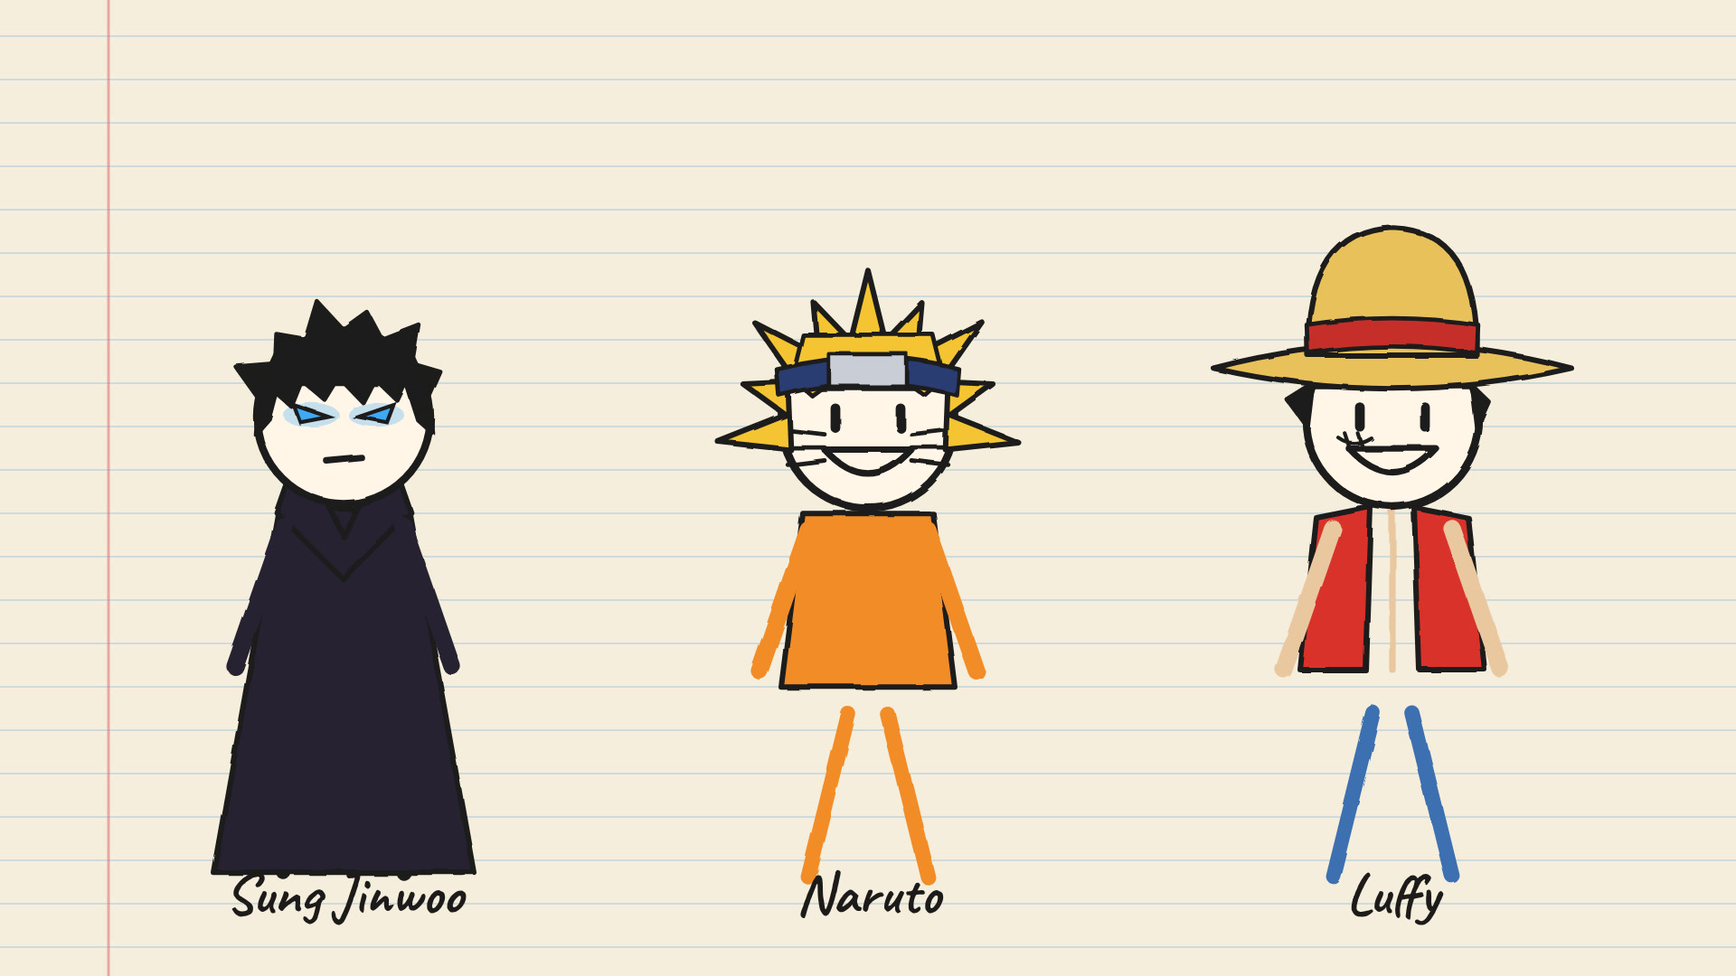
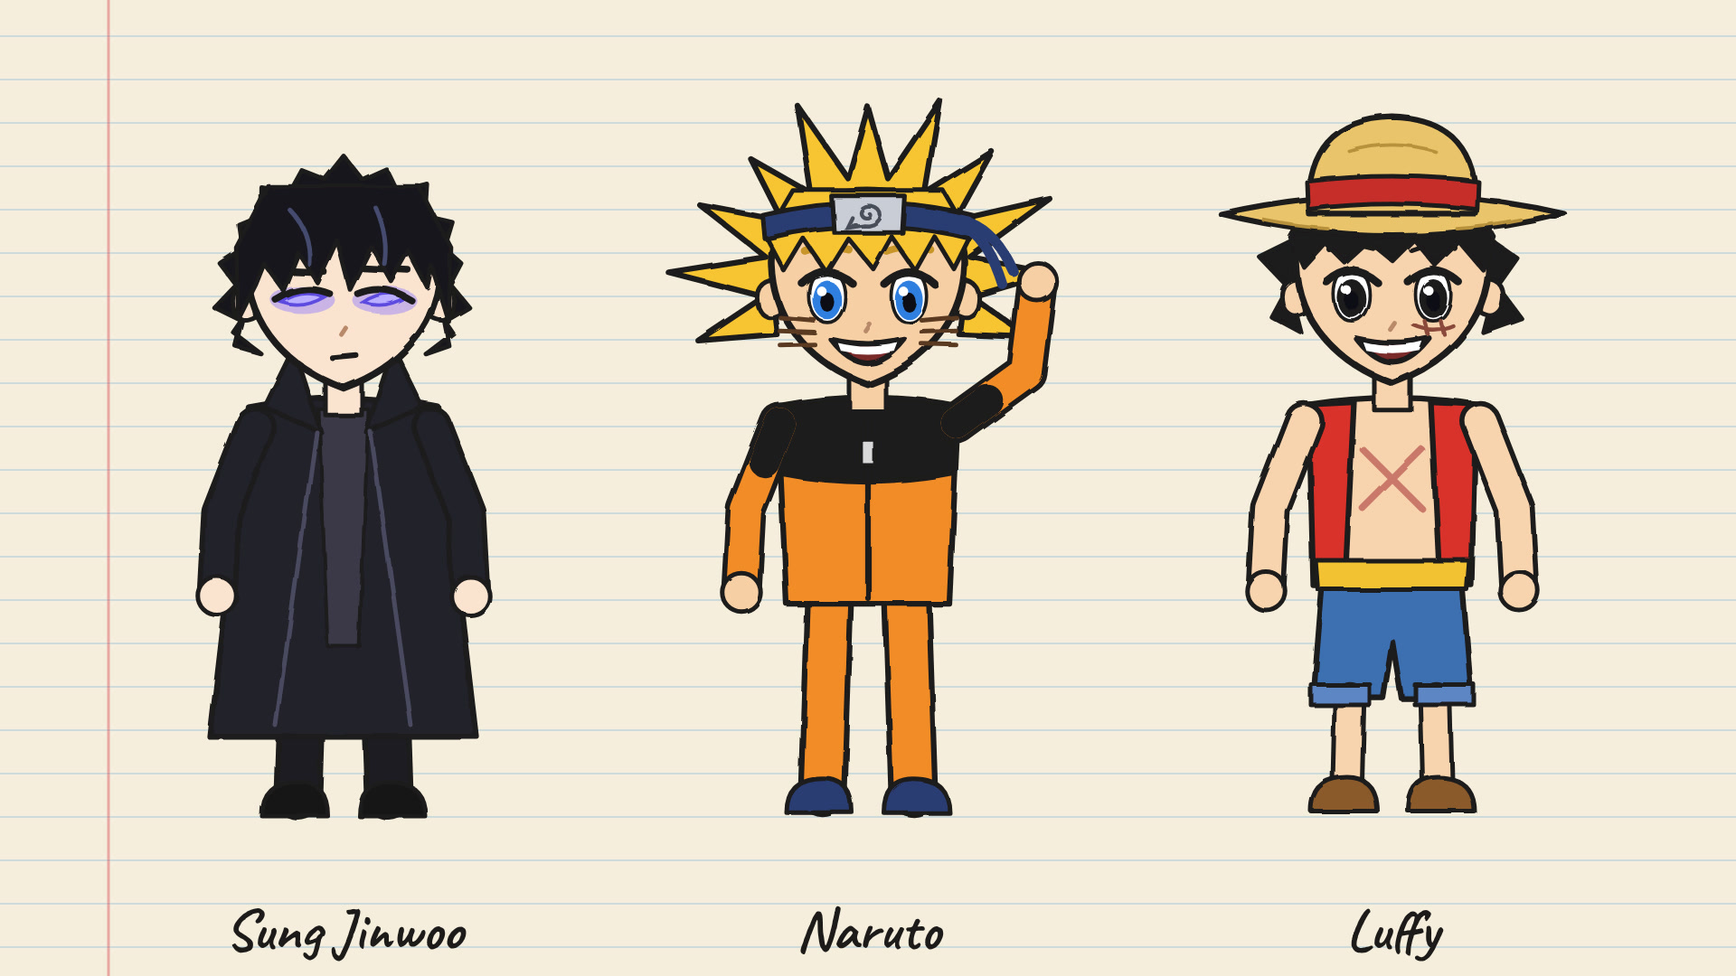
Social Ripple: anime-style chibi characters (Jinwoo, Naruto, Luffy)
Claude-Session: https://claude.ai/code/session_01BFgAxmP7ubruifvaTKx5Vg

Changed region(s): [[0.375, 0.0917, 0.625, 0.9778], [0.6875, 0.0917, 0.9062, 0.9778], [0.0938, 0.1528, 0.2812, 0.9778]]

diff --git a/research/meta-muse/social-ripple/anime/kit/char.js b/research/meta-muse/social-ripple/anime/kit/char.js
@@ -1,56 +1,101 @@
-/* Anime character "ink" figures for Social Ripple: our own simplified drawings built from each character's
-   signature traits (hair, outfit colours, marks). CHAR(K or {I}) → { draw(p, name, x, y, s, at, o) } returning a figure handle. */
+/* Anime characters for Social Ripple, drawn in our own ink-outline chibi style from each character's signature design
+   traits (hair silhouette, eyes, outfit, marks). Not traced from official art.
+   const C = CHAR({ I }); const h = C.draw(parent, "naruto" | "luffy" | "jinwoo", x, feetY, scale, at, { mood, glow, pose });
+   h.setMood(t, m)  h.setGlow(t, bool)  h.update(t). Moods: neutral, smile, grin, serious, sad, shout. Poses: down, fist, point, cross. */
 (function () {
   window.CHAR = function (K) {
-    const { I } = K, el = I.el, INKC = I.INKC;
-    const poly = (pts) => "M" + pts.map((p) => p.map((v) => v.toFixed(1)).join(",")).join(" L") + " Z";
-    const spikes = (cx, cy, r, a0, a1, n, rin, rout, jit = 0) => { const pts = []; for (let i = 0; i <= n; i++) { const a = (a0 + (a1 - a0) * (i / n)) * Math.PI / 180, rr = i % 2 ? rout + (i % 4 === 1 ? jit : -jit) : rin; pts.push([cx + Math.cos(a) * r * rr, cy + Math.sin(a) * r * rr]); } return pts.concat([[cx + r * 0.92, cy - r * 0.38], [cx - r * 0.92, cy - r * 0.38]]); };
-    const fillP = (p, d, fill, at, o = {}) => I.fill(p, el("path", { d, fill, stroke: o.stroke ?? INKC, "stroke-width": o.sw ?? 6, "stroke-linejoin": "round", opacity: 0 }), at, o.dur || 0.25, { sound: o.sound ?? false });
-    const P = {
-      jinwoo: { hair: "#1D1B1A", coat: "#262330", coatLen: 1.0, collar: true, pants: "#1D1B1A", eye: "#3FA9F5" },
-      naruto: { hair: "#F4C430", coat: "#F28C28", coatLen: 0.55, pants: "#F28C28", eye: "#3B7DD8", band: true, whiskers: true },
-      luffy: { hair: "#1D1B1A", coat: "#D8322A", coatLen: 0.5, vest: true, pants: "#3D6FB0", eye: INKC, hat: true, scar: true },
-    };
+    const { I } = K, el = I.el, INK = I.INKC;
+    const SKIN = { naruto: "#F6CFA4", luffy: "#F7D3AE", jinwoo: "#FBE4CF" };
     function draw(p, name, x, y, s, at, o = {}) {
-      const c = P[name], g = el("g", {}, p), r = 80 * s, cx = x, cy = y - 330 * s;
-      // body: coat / jacket as a filled shape under the stick limbs
-      const sh = y - 250 * s, hem = y - 250 * s + 300 * s * c.coatLen + (c.coatLen > 0.8 ? 40 * s : 0);
-      const legs = I.path(g, `M${x - 18 * s},${y - 60 * s} L${x - 55 * s},${y + 90 * s} M${x + 18 * s},${y - 60 * s} L${x + 55 * s},${y + 90 * s}`, at + 0.6, 0.3, { w: 14 * s, color: c.pants });
-      fillP(g, c.vest ? `M${x - 70 * s},${sh + 10 * s} L${x - 20 * s},${sh} L${x - 25 * s},${hem} L${x - 85 * s},${hem} Z M${x + 70 * s},${sh + 10 * s} L${x + 20 * s},${sh} L${x + 25 * s},${hem} L${x + 85 * s},${hem} Z`
-        : `M${x - 60 * s},${sh + 5 * s} L${x + 60 * s},${sh + 5 * s} L${x + (c.coatLen > 0.8 ? 120 : 80) * s},${hem} L${x - (c.coatLen > 0.8 ? 120 : 80) * s},${hem} Z`, c.coat, at + 0.3, { sound: "swish" });
-      if (c.collar) fillP(g, `M${x - 62 * s},${sh + 8 * s} L${x - 40 * s},${sh - 55 * s} L${x},${sh + 30 * s} L${x + 40 * s},${sh - 55 * s} L${x + 62 * s},${sh + 8 * s} L${x},${sh + 70 * s} Z`, c.coat, at + 0.35);
-      if (c.vest) I.path(g, `M${x},${sh} V${hem}`, at + 0.35, 0.2, { w: 6 * s, color: "#E9C8A0", silent: true });
-      const arms = o.arms || `M${x - 55 * s},${sh + 20 * s} L${x - 100 * s},${sh + 150 * s} M${x + 55 * s},${sh + 20 * s} L${x + 100 * s},${sh + 150 * s}`;
-      I.path(g, arms, at + 0.45, 0.3, { w: 16 * s, color: c.vest ? "#E9C8A0" : c.coat });
-      // head
-      I.fill(g, el("circle", { cx, cy, r, fill: "#FFF6E8", stroke: INKC, "stroke-width": 7 * s, opacity: 0 }), at, 0.2, { sound: "pop" });
-      // eyes (two styles), mouths by mood
-      const eyes = el("g", {}, g), glow = el("g", { opacity: 0 }, g);
-      I.path(eyes, `M${cx - 30 * s},${cy - 12 * s} l0,${18 * s} M${cx + 30 * s},${cy - 12 * s} l0,${18 * s}`, at + 0.3, 0.15, { w: 9 * s, silent: true });
-      [-1, 1].forEach((d) => { el("ellipse", { cx: cx + d * 30 * s, cy: cy - 2 * s, rx: 26 * s, ry: 11 * s, fill: c.eye, opacity: 0.3 }, glow);
-        el("path", { d: `M${cx + d * 14 * s},${cy} L${cx + d * 46 * s},${cy - 11 * s} L${cx + d * 40 * s},${cy + 5 * s} Z`, fill: c.eye, stroke: INKC, "stroke-width": 3.5 * s }, glow); });
-      const mouth = { neutral: `M${cx - 20 * s},${cy + 38 * s} l${40 * s},0`, smile: `M${cx - 30 * s},${cy + 30 * s} q${30 * s},${26 * s} ${60 * s},0`, grin: `M${cx - 40 * s},${cy + 26 * s} q${40 * s},${44 * s} ${80 * s},0 z`, sad: `M${cx - 26 * s},${cy + 46 * s} q${26 * s},${-20 * s} ${52 * s},0`, serious: `M${cx - 16 * s},${cy + 40 * s} l${32 * s},${-3 * s}` };
-      const ms = {}; for (const m in mouth) { ms[m] = I.path(g, mouth[m], at + 0.35, 0.15, { w: 6 * s, silent: true }); ms[m].style.display = "none"; }
-      // signature marks
-      if (c.whiskers) for (const d of [-1, 1]) for (let k = 0; k < 3; k++) I.path(g, `M${cx + d * 40 * s},${cy + (12 + k * 12) * s} l${d * 34 * s},${(k - 1) * 4 * s}`, at + 0.4, 0.1, { w: 4 * s, silent: true });
-      if (c.scar) I.path(g, `M${cx - 50 * s},${cy + 16 * s} q${14 * s},${10 * s} ${30 * s},0 M${cx - 44 * s},${cy + 12 * s} l${4 * s},${12 * s} M${cx - 32 * s},${cy + 12 * s} l${4 * s},${12 * s}`, at + 0.4, 0.15, { w: 3.5 * s, silent: true });
-      // hair
-      if (name === "jinwoo") { fillP(g, poly(spikes(cx, cy, r, 192, 348, 12, 1.0, 1.3, 0.07)), c.hair, at + 0.15, { sw: 4 * s });
-        const R = (u, v) => [cx + u * r, cy + v * r];
-        fillP(g, poly([R(-0.98, -0.3), R(-1.02, 0.2), R(-0.86, 0.02), R(-0.78, -0.28), R(-0.6, -0.12), R(-0.48, -0.42), R(-0.22, -0.2), R(-0.06, -0.46), R(0.22, -0.17), R(0.36, -0.44), R(0.62, -0.19), R(0.72, -0.4), R(0.86, 0.04), R(1.02, 0.18), R(0.98, -0.3), R(0.7, -0.9), R(-0.7, -0.9)]), c.hair, at + 0.2, { sw: 4 * s }); }
-      if (name === "naruto") { fillP(g, poly(spikes(cx, cy, r, 160, 380, 18, 0.95, 1.62, 0.12)), c.hair, at + 0.15, { sw: 5 * s });
-        fillP(g, poly([[cx - 70 * s, cy - 40 * s], [cx - 52 * s, cy - 24 * s], [cx - 30 * s, cy - 40 * s], [cx + 30 * s, cy - 40 * s], [cx + 52 * s, cy - 24 * s], [cx + 70 * s, cy - 40 * s], [cx + 60 * s, cy - 80 * s], [cx - 60 * s, cy - 80 * s]]), c.hair, at + 0.2, { sw: 4 * s });
-        fillP(g, `M${cx - 84 * s},${cy - 48 * s} Q${cx},${cy - 70 * s} ${cx + 84 * s},${cy - 48 * s} L${cx + 82 * s},${cy - 24 * s} Q${cx},${cy - 46 * s} ${cx - 82 * s},${cy - 24 * s} Z`, "#2C3E73", at + 0.25, { sw: 4 * s });
-        fillP(g, `M${cx - 36 * s},${cy - 62 * s} h${72 * s} v${30 * s} h${-72 * s} z`, "#C9CED6", at + 0.3, { sw: 4 * s }); }
-      if (name === "luffy") { fillP(g, poly(spikes(cx, cy, r, 175, 365, 12, 0.98, 1.18, 0.05)), c.hair, at + 0.15, { sw: 4 * s });
-        fillP(g, `M${cx - 165 * s},${cy - 48 * s} Q${cx},${cy - 10 * s} ${cx + 165 * s},${cy - 48 * s} Q${cx},${cy - 92 * s} ${cx - 165 * s},${cy - 48 * s} Z`, "#E8C15A", at + 0.25, { sw: 5 * s, sound: "slap" });
-        fillP(g, `M${cx - 78 * s},${cy - 60 * s} Q${cx - 80 * s},${cy - 175 * s} ${cx},${cy - 178 * s} Q${cx + 80 * s},${cy - 175 * s} ${cx + 78 * s},${cy - 60 * s} Z`, "#E8C15A", at + 0.28, { sw: 5 * s });
-        fillP(g, `M${cx - 79 * s},${cy - 88 * s} Q${cx},${cy - 100 * s} ${cx + 79 * s},${cy - 88 * s} L${cx + 78 * s},${cy - 62 * s} Q${cx},${cy - 74 * s} ${cx - 78 * s},${cy - 62 * s} Z`, "#C62F2A", at + 0.32, { sw: 4 * s }); }
+      const g = el("g", {}, p), r = 95 * s, cx = x, cy = y - 470 * s, skin = SKIN[name];
+      const U = (u, v) => `${(cx + u * r).toFixed(1)},${(cy + v * r).toFixed(1)}`;            // head-unit coords
+      const Bp = (u, v) => `${(x + u * s).toFixed(1)},${(y + v * s).toFixed(1)}`;             // body pixel coords (scaled)
+      let k = 0; const nx = (d = 0.06) => at + (k += d);                                       // stagger the pop-in
+      const F = (d, fill, o2 = {}) => I.fill(o2.p || g, el("path", { d, fill, stroke: o2.stroke ?? INK, "stroke-width": (o2.sw ?? 5) * s, "stroke-linejoin": "round", "stroke-linecap": "round", opacity: 0 }), o2.at ?? nx(), 0.18, { sound: o2.sound ?? false });
+      const Ln = (d, color, w, o2 = {}) => I.fill(o2.p || g, el("path", { d, fill: "none", stroke: color, "stroke-width": w * s, "stroke-linecap": "round", "stroke-linejoin": "round", opacity: 0 }), o2.at ?? nx(0.02), 0.15, { sound: false });
+      const poly = (pts, f = U) => "M" + pts.map((q) => f(q[0], q[1])).join(" L") + " Z";
+      const ring = (a0, a1, n, rin, rout, jit = 0, close = []) => { const pts = []; for (let i = 0; i <= n; i++) { const a = (a0 + (a1 - a0) * i / n) * Math.PI / 180, rr = i % 2 ? rout + ((i * 37) % 7 - 3) / 3 * jit : rin; pts.push([Math.cos(a) * rr, Math.sin(a) * rr]); } return pts.concat(close); };
+      // ---------- back hair ----------
+      if (name === "naruto") F(poly(ring(150, 390, 22, 0.98, 1.72, 0.14, [[0.9, 0.05], [-0.9, 0.05]])), "#F7C531", { sw: 5, sound: "pop" });
+      if (name === "luffy") F(poly(ring(150, 390, 18, 0.98, 1.2, 0.06, [[0.95, 0.1], [-0.95, 0.1]])), "#1B1A1F", { sw: 4, sound: "pop" });
+      if (name === "jinwoo") F(poly(ring(140, 400, 26, 1.0, 1.17, 0.05, [[1.02, 0.45], [0.85, 0.2], [-0.85, 0.2], [-1.02, 0.45]])), "#17161C", { sw: 4, sound: "pop" });
+      // ---------- legs + shoes ----------
+      const pants = { naruto: "#F28C28", luffy: "#3D6FB0", jinwoo: "#1E1D24" }[name];
+      if (name === "luffy") { F(`M${Bp(-62, -200)} L${Bp(62, -200)} L${Bp(70, -100)} L${Bp(8, -100)} L${Bp(0, -150)} L${Bp(-8, -100)} L${Bp(-70, -100)} Z`, pants);
+        Ln(`M${Bp(-38, -100)} L${Bp(-40, -18)} M${Bp(38, -100)} L${Bp(40, -18)}`, INK, 30); Ln(`M${Bp(-38, -100)} L${Bp(-40, -18)} M${Bp(38, -100)} L${Bp(40, -18)}`, skin, 22);
+        F(`M${Bp(-72, -112)} h${52 * s} v${18 * s} h${-52 * s} z M${Bp(20, -112)} h${52 * s} v${18 * s} h${-52 * s} z`, "#5C86C4", { sw: 4 }); }
+      else { Ln(`M${Bp(-34, -200)} L${Bp(-40, -18)} M${Bp(34, -200)} L${Bp(40, -18)}`, INK, 44); Ln(`M${Bp(-34, -200)} L${Bp(-40, -18)} M${Bp(34, -200)} L${Bp(40, -18)}`, pants, 34); }
+      const shoe = { naruto: "#2C3E73", luffy: "#8A5A2B", jinwoo: "#141318" }[name];
+      F(`M${Bp(-72, 0)} q0,${-30 * s} ${32 * s},${-30 * s} q${26 * s},0 ${26 * s},${30 * s} z M${Bp(14, 0)} q0,${-30 * s} ${26 * s},${-30 * s} q${32 * s},0 ${32 * s},${30 * s} z`, shoe, { sw: 4 });
+      // ---------- torso ----------
+      if (name === "naruto") { F(`M${Bp(-80, -360)} Q${Bp(0, -375)} ${Bp(80, -360)} L${Bp(72, -185)} L${Bp(-72, -185)} Z`, "#F28C28", { sound: "swish" });
+        F(`M${Bp(-80, -360)} Q${Bp(0, -375)} ${Bp(80, -360)} L${Bp(77, -300)} Q${Bp(0, -285)} ${Bp(-77, -300)} Z`, "#1D1B1A", { sw: 4 });
+        Ln(`M${Bp(0, -350)} V${(y - 190 * s).toFixed(1)}`, "#1D1B1A", 5); F(`M${Bp(-6, -330)} h${12 * s} v${22 * s} h${-12 * s} z`, "#D9D9D9", { sw: 3 }); }
+      if (name === "luffy") { F(`M${Bp(-74, -360)} Q${Bp(0, -372)} ${Bp(74, -360)} L${Bp(66, -200)} L${Bp(-66, -200)} Z`, skin);
+        Ln(`M${Bp(-26, -320)} L${Bp(26, -268)} M${Bp(26, -320)} L${Bp(-26, -268)}`, "#C9786B", 6);
+        F(`M${Bp(-74, -360)} L${Bp(-34, -362)} L${Bp(-42, -200)} L${Bp(-70, -200)} Z M${Bp(74, -360)} L${Bp(34, -362)} L${Bp(42, -200)} L${Bp(70, -200)} Z`, "#D8322A", { sound: "swish" });
+        F(`M${Bp(-68, -222)} L${Bp(68, -222)} L${Bp(66, -196)} L${Bp(-66, -196)} Z`, "#F2C230", { sw: 4 }); }
+      if (name === "jinwoo") { F(`M${Bp(-84, -362)} Q${Bp(0, -378)} ${Bp(84, -362)} L${Bp(118, -70)} L${Bp(-118, -70)} Z`, "#22212B", { sound: "swish" });
+        F(`M${Bp(-22, -360)} L${Bp(22, -360)} L${Bp(14, -150)} L${Bp(-14, -150)} Z`, "#3A3946", { sw: 3 });
+        F(`M${Bp(-70, -362)} L${Bp(-44, -415)} L${Bp(-20, -340)} Z M${Bp(70, -362)} L${Bp(44, -415)} L${Bp(20, -340)} Z`, "#22212B", { sw: 4 });
+        Ln(`M${Bp(-24, -340)} L${Bp(-60, -80)} M${Bp(24, -340)} L${Bp(60, -80)}`, "#4A4A60", 4); }
+      // ---------- arms (sleeve + hand) ----------
+      const sleeve = { naruto: "#F28C28", luffy: skin, jinwoo: "#22212B" }[name];
+      const poses = { down: [[-78, -345, -108, -268, -112, -195], [78, -345, 108, -268, 112, -195]], fist: [[-78, -345, -108, -268, -112, -195], [78, -345, 140, -390, 150, -470]],
+        point: [[-78, -345, -108, -268, -112, -195], [78, -345, 150, -330, 225, -340]], cross: [[-78, -345, -40, -280, 50, -300], [78, -345, 40, -280, -50, -300]] };
+      const arms = (o.armsCustom || poses[o.pose || "down"]);
+      arms.forEach(([sx, sy, ex, ey, hx, hy]) => { const d = `M${Bp(sx, sy)} L${Bp(ex, ey)} L${Bp(hx, hy)}`; Ln(d, INK, 36); Ln(d, sleeve, 27); if (name === "naruto") Ln(`M${Bp(sx, sy)} L${Bp(sx + (ex - sx) * 0.45, sy + (ey - sy) * 0.45)}`, "#1D1B1A", 27);
+        I.fill(g, el("circle", { cx: x + hx * s, cy: y + hy * s, r: 17 * s, fill: skin, stroke: INK, "stroke-width": 4 * s, opacity: 0 }), nx(0.02), 0.15, { sound: false }); });
+      // ---------- neck, ears, face ----------
+      F(`M${Bp(-16, -400)} h${32 * s} v${45 * s} h${-32 * s} z`, skin, { sw: 4 });
+      F(`M${U(-0.86, -0.02)} q${-0.22 * r},${0.02 * r} ${-0.16 * r},${0.26 * r} q${0.06 * r},${0.14 * r} ${0.2 * r},${0.06 * r} z M${U(0.86, -0.02)} q${0.22 * r},${0.02 * r} ${0.16 * r},${0.26 * r} q${-0.06 * r},${0.14 * r} ${-0.2 * r},${0.06 * r} z`, skin, { sw: 4 });
+      F(`M${U(-0.9, -0.15)} C${U(-0.95, -1.08)} ${U(0.95, -1.08)} ${U(0.9, -0.15)} C${U(0.88, 0.4)} ${U(0.5, 0.78)} ${U(0, 0.96)} C${U(-0.5, 0.78)} ${U(-0.88, 0.4)} ${U(-0.9, -0.15)} Z`, skin, { sw: 6, sound: "pop" });
+      // ---------- eyes ----------
+      const eyes = el("g", {}, g), glow = el("g", { opacity: 0 }, g), eyeC = { naruto: "#2F7FE0", luffy: "#1B1A1F", jinwoo: "#4B4658" }[name];
+      for (const d of [-1, 1]) { const ex = d * 0.38, ey = 0.14;
+        if (name === "jinwoo") { F(`M${U(ex - 0.22, ey + 0.02)} Q${U(ex, ey - 0.13)} ${U(ex + 0.22, ey - 0.03)} Q${U(ex, ey + 0.12)} ${U(ex - 0.22, ey + 0.02)} Z`, "#FFFFFF", { p: eyes, sw: 3 });
+          I.fill(eyes, el("circle", { cx: cx + ex * r, cy: cy + (ey - 0.01) * r, r: 0.075 * r, fill: eyeC, opacity: 0 }), nx(0.02), 0.1, { sound: false });
+          Ln(`M${U(ex - 0.25, ey + (d < 0 ? 0.0 : -0.06))} Q${U(ex, ey - 0.16)} ${U(ex + 0.25, ey + (d < 0 ? -0.06 : 0.0))}`, INK, 7, { p: eyes });
+          Ln(`M${U(ex - d * 0.2, ey - 0.3 + (d < 0 ? 0.04 : 0))} L${U(ex + d * 0.22, ey - 0.28)}`, INK, 6, { p: eyes });
+          I.fill(glow, el("ellipse", { cx: cx + ex * r, cy: cy + ey * r, rx: 0.3 * r, ry: 0.13 * r, fill: "#8C7BFF", opacity: 0 }), at, 0.1, { sound: false }).setAttribute("fill-opacity", 0.45);
+          I.fill(glow, el("path", { d: `M${U(ex - 0.2, ey + 0.02)} Q${U(ex, ey - 0.11)} ${U(ex + 0.2, ey - 0.03)} Q${U(ex, ey + 0.09)} ${U(ex - 0.2, ey + 0.02)} Z`, fill: "#B9AEFF", stroke: "#5D4BE0", "stroke-width": 3 * s, opacity: 0 }), at, 0.1, { sound: false });
+          el("path", { d: `M${U(ex - 0.25, ey + (d < 0 ? 0.0 : -0.06))} Q${U(ex, ey - 0.16)} ${U(ex + 0.25, ey + (d < 0 ? -0.06 : 0.0))} M${U(ex - d * 0.2, ey - 0.3 + (d < 0 ? 0.04 : 0))} L${U(ex + d * 0.22, ey - 0.28)}`, fill: "none", stroke: INK, "stroke-width": 6 * s, "stroke-linecap": "round" }, glow); }
+        else { F(`M${U(ex, ey - 0.25)} C${U(ex + 0.22, ey - 0.25)} ${U(ex + 0.22, ey + 0.24)} ${U(ex, ey + 0.24)} C${U(ex - 0.22, ey + 0.24)} ${U(ex - 0.22, ey - 0.25)} ${U(ex, ey - 0.25)} Z`, "#FFFFFF", { p: eyes, sw: 3 });
+          I.fill(eyes, el("ellipse", { cx: cx + ex * r, cy: cy + (ey + 0.03) * r, rx: 0.13 * r, ry: 0.18 * r, fill: eyeC, opacity: 0 }), nx(0.02), 0.1, { sound: false });
+          I.fill(eyes, el("ellipse", { cx: cx + ex * r, cy: cy + (ey + 0.05) * r, rx: 0.065 * r, ry: 0.09 * r, fill: "#0E0E12", opacity: 0 }), nx(0.01), 0.1, { sound: false });
+          I.fill(eyes, el("circle", { cx: cx + (ex - 0.05) * r, cy: cy + (ey - 0.05) * r, r: 0.045 * r, fill: "#FFFFFF", opacity: 0 }), nx(0.01), 0.1, { sound: false });
+          Ln(`M${U(ex - 0.23, ey - 0.12)} Q${U(ex, ey - 0.33)} ${U(ex + 0.24, ey - 0.12)}`, INK, 7, { p: eyes });
+          Ln(`M${U(ex - 0.2, ey - 0.42)} Q${U(ex, ey - 0.5)} ${U(ex + 0.2, ey - 0.44)}`, name === "naruto" ? "#C9962A" : INK, name === "naruto" ? 7 : 5, { p: eyes }); } }
+      Ln(`M${U(0.02, 0.4)} l${-0.04 * r},${0.06 * r}`, "#B98A6A", 4);
+      // ---------- mouths ----------
+      const M = { neutral: [`M${U(-0.12, 0.66)} L${U(0.12, 0.66)}`, "none"], smile: [`M${U(-0.2, 0.6)} Q${U(0, 0.76)} ${U(0.2, 0.6)}`, "none"], serious: [`M${U(-0.1, 0.68)} L${U(0.12, 0.66)}`, "none"],
+        sad: [`M${U(-0.16, 0.72)} Q${U(0, 0.6)} ${U(0.16, 0.72)}`, "none"], grin: [`M${U(-0.34, 0.54)} Q${U(0, 0.62)} ${U(0.34, 0.54)} Q${U(0, 0.98)} ${U(-0.34, 0.54)} Z`, "#7A2A2A"], shout: [`M${U(-0.16, 0.56)} Q${U(0, 0.52)} ${U(0.16, 0.56)} Q${U(0.14, 0.9)} ${U(0, 0.9)} Q${U(-0.14, 0.9)} ${U(-0.16, 0.56)} Z`, "#7A2A2A"] };
+      const ms = {}; for (const m in M) ms[m] = el("path", { d: M[m][0], fill: M[m][1], stroke: INK, "stroke-width": 5 * s, "stroke-linecap": "round", "stroke-linejoin": "round", style: "display:none" }, g);
+      ms.grinTeeth = el("path", { d: `M${U(-0.28, 0.57)} Q${U(0, 0.64)} ${U(0.28, 0.57)} L${U(0.25, 0.65)} Q${U(0, 0.71)} ${U(-0.25, 0.65)} Z`, fill: "#FFFFFF", style: "display:none" }, g);
+      // ---------- marks ----------
+      if (name === "naruto") for (const d of [-1, 1]) for (let i = 0; i < 3; i++) Ln(`M${U(d * 0.5, 0.36 + i * 0.11)} L${U(d * 0.82, 0.33 + i * 0.13)}`, "#5A3A22", 4);
+      if (name === "luffy") Ln(`M${U(0.2, 0.42)} Q${U(0.38, 0.5)} ${U(0.56, 0.42)} M${U(0.3, 0.38)} l${0.03 * r},${0.12 * r} M${U(0.45, 0.38)} l${0.03 * r},${0.12 * r}`, "#8A4A3A", 3.5);
+      // ---------- front hair ----------
+      if (name === "naruto") F(poly([[-0.95, -0.42], [-0.78, -0.1], [-0.6, -0.4], [-0.38, -0.08], [-0.18, -0.4], [0.05, -0.12], [0.22, -0.42], [0.44, -0.1], [0.62, -0.42], [0.8, -0.12], [0.95, -0.42], [0.7, -0.85], [-0.7, -0.85]]), "#F7C531", { sw: 4 });
+      if (name === "luffy") F(poly([[-0.95, -0.4], [-0.82, -0.12], [-0.62, -0.34], [-0.44, -0.16], [-0.22, -0.36], [0.0, -0.18], [0.2, -0.38], [0.4, -0.14], [0.62, -0.36], [0.84, -0.1], [0.95, -0.4], [0.7, -0.85], [-0.7, -0.85]]), "#1B1A1F", { sw: 4 });
+      if (name === "jinwoo") { F(poly([[-1.0, -0.35], [-0.98, 0.32], [-0.82, 0.0], [-0.74, -0.2], [-0.56, 0.05], [-0.42, -0.3], [-0.24, -0.02], [-0.06, -0.42], [0.06, 0.04], [0.26, -0.36], [0.44, -0.04], [0.6, -0.32], [0.78, 0.02], [0.82, -0.18], [0.98, 0.34], [1.0, -0.35], [0.7, -0.92], [-0.7, -0.92]]), "#17161C", { sw: 4 });
+        Ln(`M${U(-0.5, -0.7)} Q${U(-0.3, -0.5)} ${U(-0.32, -0.2)} M${U(0.3, -0.72)} Q${U(0.42, -0.45)} ${U(0.38, -0.2)}`, "#454B6E", 4); }
+      // ---------- accessories ----------
+      if (name === "naruto") { F(`M${U(-0.98, -0.62)} Q${U(0, -0.86)} ${U(0.98, -0.62)} L${U(0.96, -0.4)} Q${U(0, -0.64)} ${U(-0.96, -0.4)} Z`, "#2C3E73", { sw: 4 });
+        F(`M${U(-0.34, -0.8)} L${U(0.34, -0.8)} L${U(0.32, -0.46)} L${U(-0.32, -0.46)} Z`, "#C9CED6", { sw: 4 });
+        { const sp = []; for (let i = 0; i <= 24; i++) { const a = i / 24 * Math.PI * 2.6, rr = 0.012 + i / 24 * 0.1; sp.push(U(Math.cos(a) * rr * 1.3, -0.63 + Math.sin(a) * rr)); }
+          Ln(`M${sp.join(" L")} L${U(-0.2, -0.5)} M${U(-0.11, -0.53)} L${U(-0.2, -0.5)} L${U(-0.15, -0.6)}`, "#4A4F5A", 3.5); }
+        Ln(`M${U(0.95, -0.55)} q${0.25 * r},${0.1 * r} ${0.4 * r},${0.45 * r} M${U(0.95, -0.48)} q${0.18 * r},${0.12 * r} ${0.3 * r},${0.5 * r}`, "#2C3E73", 9); }
+      if (name === "luffy") { F(`M${U(-1.6, -0.62)} Q${U(0, -0.98)} ${U(1.6, -0.62)} Q${U(0, -0.22)} ${U(-1.6, -0.62)} Z`, "#E9C46A", { sw: 5, sound: "slap" });
+        F(`M${U(-0.78, -0.62)} Q${U(-0.82, -1.5)} ${U(0, -1.52)} Q${U(0.82, -1.5)} ${U(0.78, -0.62)} Z`, "#E9C46A", { sw: 5 });
+        F(`M${U(-0.8, -0.92)} Q${U(0, -1.02)} ${U(0.8, -0.92)} L${U(0.79, -0.66)} Q${U(0, -0.76)} ${U(-0.79, -0.66)} Z`, "#C62F2A", { sw: 4 });
+        Ln(`M${U(-1.2, -0.56)} Q${U(-0.9, -0.5)} ${U(-0.6, -0.48)} M${U(0.6, -0.48)} Q${U(0.9, -0.5)} ${U(1.2, -0.56)} M${U(-0.4, -1.2)} q${0.4 * r},${-0.12 * r} ${0.8 * r},0`, "#B8913E", 3); }
       const keys = [[0, o.mood || "neutral", !!o.glow]];
       return { g, keys, setMood: (t0, m) => keys.push([t0, m, keys[keys.length - 1][2]]), setGlow: (t0, v) => keys.push([t0, keys[keys.length - 1][1], v]),
-        update(t) { let k = keys[0]; for (const kk of keys) if (t >= kk[0]) k = kk; for (const m in ms) ms[m].style.display = m === k[1] ? "inline" : "none";
-          glow.setAttribute("opacity", k[2] && t >= at + 0.3 ? 1 : 0); eyes.setAttribute("opacity", k[2] ? 0 : 1);
-          const blink = !k[2] && (t * 1000 + x) % 3900 < 110; eyes.setAttribute("transform", blink ? `translate(0,${cy}) scale(1,0.15) translate(0,${-cy})` : "");
+        update(t) { let kk = keys[0]; for (const q of keys) if (t >= q[0]) kk = q; const shown = t >= at + k;
+          for (const m in M) ms[m].style.display = shown && m === kk[1] ? "inline" : "none"; ms.grinTeeth.style.display = shown && kk[1] === "grin" ? "inline" : "none";
+          glow.setAttribute("opacity", kk[2] && shown ? 1 : 0); eyes.setAttribute("opacity", kk[2] && name === "jinwoo" ? 0 : 1);
+          const blink = !kk[2] && (t * 1000 + x * 7) % 4100 < 110, ey = cy + 0.14 * r; eyes.setAttribute("transform", blink ? `translate(0,${ey}) scale(1,0.12) translate(0,${-ey})` : "");
           g.setAttribute("transform", `translate(0,${(Math.sin(t * 2.2 + x) * 3).toFixed(2)})`); } };
     }
     // the "System" window (our own design): a glowing blue panel with a header and rows
@@ -62,6 +107,6 @@
       const rowEls = rows.map((r, i) => { const t = el("text", { x: x + 40, y: y + 150 + i * 78, "font-family": "Patrick Hand", "font-size": 50, fill: "#E8F6FF", opacity: 0 }, g); t.textContent = r; I.fill(g, t, at + 0.3 + i * (o.rowGap ?? 0.25), 0.15, { sound: i ? false : "pop" }); return t; });
       return { g, rowEls };
     }
-    return { draw, system, presets: P };
+    return { draw, system };
   };
 })();

diff --git a/research/meta-muse/social-ripple/anime/kit/chars.html b/research/meta-muse/social-ripple/anime/kit/chars.html
@@ -13,14 +13,14 @@ document.fonts.ready.then(() => {
   const lab = (t, x, y, c = INKC) => { const e = el("text", { x, y, "text-anchor": "middle", "font-family": "Caveat", "font-weight": 700, "font-size": 64, fill: c }, svg); e.textContent = t; };
   const mode = new URLSearchParams(location.search).get("n") || "three";
   if (mode === "three") {
-    F.push(C.draw(ink, "jinwoo", 380, 860, 1.2, 0, { mood: "serious", glow: true }));
-    F.push(C.draw(ink, "naruto", 960, 860, 1.2, 0, { mood: "grin" }));
-    F.push(C.draw(ink, "luffy", 1540, 860, 1.2, 0, { mood: "grin" }));
-    lab("Sung Jinwoo", 380, 1010); lab("Naruto", 960, 1010); lab("Luffy", 1540, 1010);
+    F.push(C.draw(ink, "jinwoo", 380, 900, 1.25, 0, { mood: "serious", glow: true }));
+    F.push(C.draw(ink, "naruto", 960, 900, 1.25, 0, { mood: "grin", pose: "fist" }));
+    F.push(C.draw(ink, "luffy", 1540, 900, 1.25, 0, { mood: "grin" }));
+    lab("Sung Jinwoo", 380, 1050); lab("Naruto", 960, 1050); lab("Luffy", 1540, 1050);
   } else {
-    F.push(C.draw(ink, "jinwoo", 520, 880, 1.45, 0, { mood: "serious", glow: true }));
+    F.push(C.draw(ink, "jinwoo", 520, 960, 1.45, 0, { mood: "serious", glow: true }));
     C.system(ink, 980, 170, 780, ["Push-ups  100/100", "Sit-ups  100/100", "Squats  100/100", "Run  10/10 km"], 0);
   }
-  I.ready(); I.update(99); F.forEach((f) => f.update(1)); I.setView(-50, -50, 2020, 1180); window.READY = true;
+  I.ready(); I.update(99); F.forEach((f) => f.update(5)); I.setView(-50, -50, 2020, 1180); window.READY = true;
 });
 </script></body></html>
